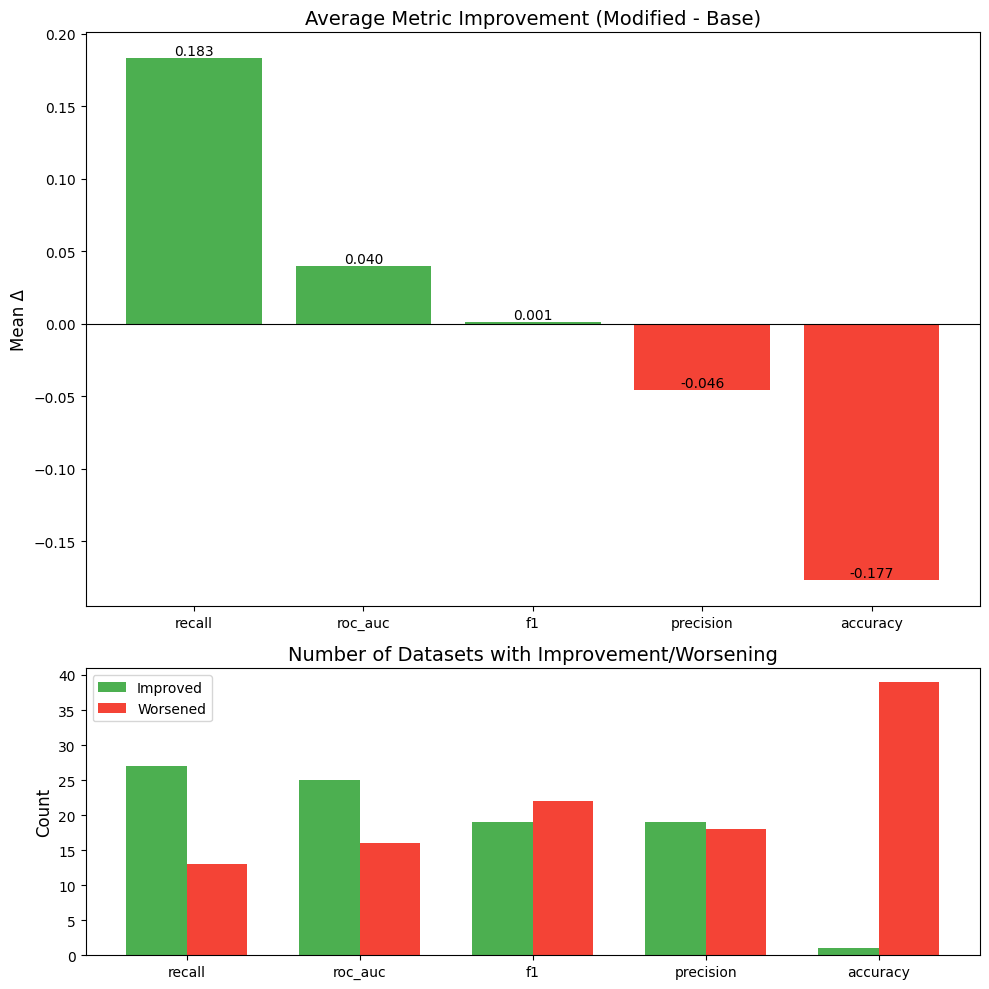
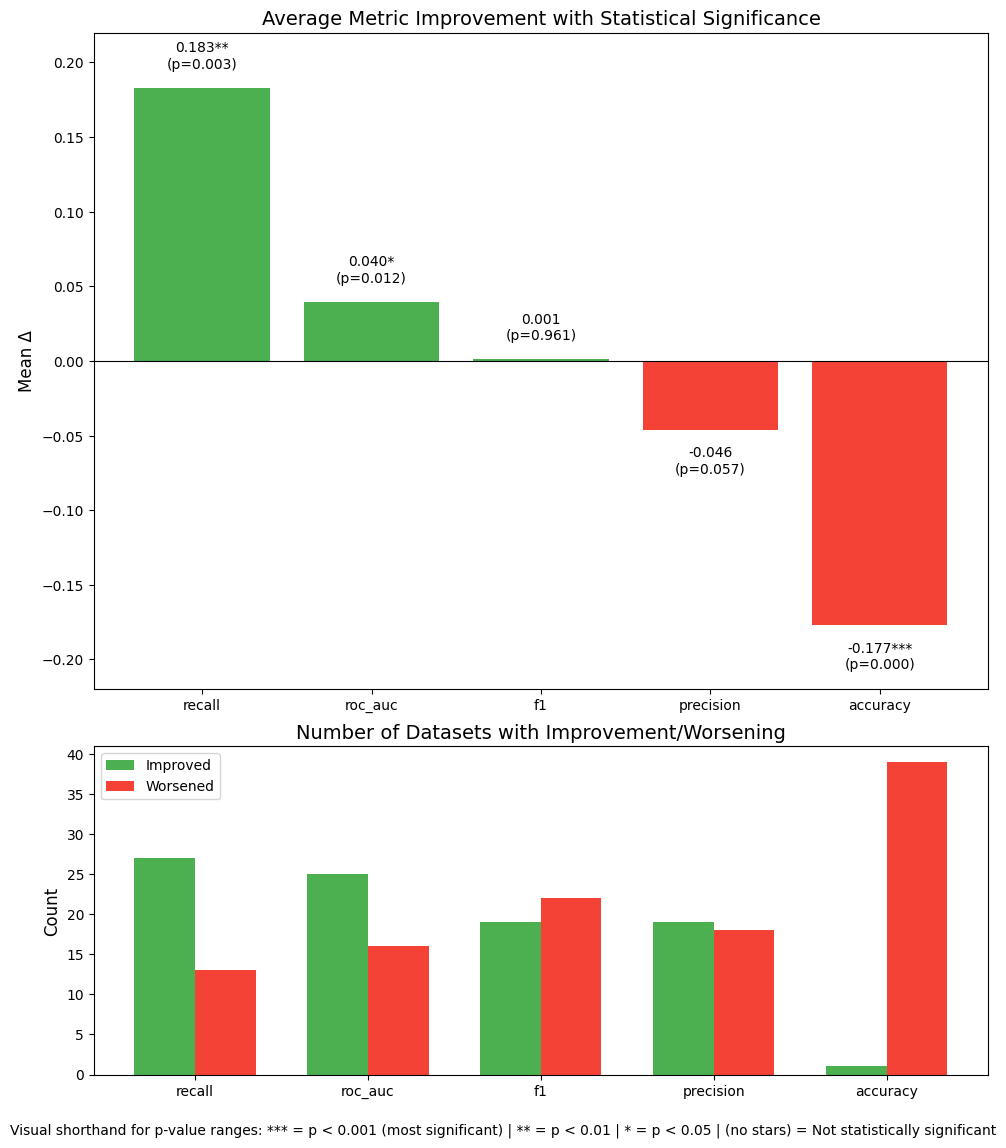
Add statistical tests and significance markers to metric improvement summary plots

diff --git a/src/utils/comparison.py b/src/utils/comparison.py
@@ -2,6 +2,7 @@ import matplotlib.pyplot as plt
 import pandas as pd
 import os
 import numpy as np
+from scipy import stats
 
 
 def load_and_merge_data(base_path="results/class_imbalance"):
@@ -50,7 +51,47 @@ def plot_metric_comparison(merged_data, metric, show=True, save_path=None):
     plt.close(fig)
 
 
+def perform_statistical_tests(merged_data):
+    """
+    Perform paired t-tests for all metrics
+    """
+    metrics = ["accuracy", "precision", "recall", "f1", "roc_auc"]
+    results = []
+
+    for metric in metrics:
+        base = merged_data[f"{metric}_base"]
+        modified = merged_data[f"{metric}_modified"]
+
+        # Perform paired t-test
+        t_stat, p_val = stats.ttest_rel(modified, base)
+        mean_diff = (modified - base).mean()
+
+        # Add significance stars
+        if p_val < 0.001:
+            stars = "***"
+        elif p_val < 0.01:
+            stars = "**"
+        elif p_val < 0.05:
+            stars = "*"
+        else:
+            stars = ""
+
+        results.append(
+            {
+                "metric": metric,
+                "mean_diff": mean_diff,
+                "p_value": p_val,
+                "significance": stars,
+            }
+        )
+
+    return pd.DataFrame(results)
+
+
 def plot_improvement_summary(merged_data, show=True, save_path=None):
+    # Perform statistical tests
+    stats_df = perform_statistical_tests(merged_data)
+
     metrics = ["accuracy", "precision", "recall", "f1", "roc_auc"]
     summary_data = []
 
@@ -66,33 +107,41 @@ def plot_improvement_summary(merged_data, show=True, save_path=None):
             }
         )
 
-    df = pd.DataFrame(summary_data)
-    df = df.sort_values("mean_improvement", ascending=False)
+    df = pd.DataFrame(summary_data).merge(stats_df, on="metric")
+    df = df.sort_values("mean_diff", ascending=False)
 
     # Create figure
     fig, (ax1, ax2) = plt.subplots(
-        2, 1, figsize=(10, 10), gridspec_kw={"height_ratios": [2, 1]}
+        2, 1, figsize=(10, 12), gridspec_kw={"height_ratios": [2, 1]}
     )
 
-    # Mean improvement plot
-    colors = ["#4CAF50" if x >= 0 else "#F44336" for x in df["mean_improvement"]]
-    bars = ax1.bar(df["metric"], df["mean_improvement"], color=colors)
+    # Mean improvement plot with significance markers
+    colors = ["#4CAF50" if x >= 0 else "#F44336" for x in df["mean_diff"]]
+    bars = ax1.bar(df["metric"], df["mean_diff"], color=colors)
     ax1.axhline(0, color="black", linewidth=0.8)
-    ax1.set_title("Average Metric Improvement (Modified - Base)", fontsize=14)
+    ax1.set_title(
+        "Average Metric Improvement with Statistical Significance", fontsize=14
+    )
     ax1.set_ylabel("Mean Δ", fontsize=12)
 
-    # Add value labels
-    for bar in bars:
+    # Add significance markers and values
+    max_height = df["mean_diff"].abs().max() * 1.2
+    ax1.set_ylim(-max_height, max_height)
+
+    for bar, (_, row) in zip(bars, df.iterrows()):
         height = bar.get_height()
+        va = "bottom" if height >= 0 else "top"
+        y = height + (0.05 * max_height if height >= 0 else -0.05 * max_height)
         ax1.text(
-            bar.get_x() + bar.get_width() / 2.0,
-            height,
-            f"{height:.3f}",
+            bar.get_x() + bar.get_width() / 2,
+            y,
+            f'{row["mean_diff"]:.3f}{row["significance"]}\n(p={row["p_value"]:.3f})',
             ha="center",
-            va="bottom",
+            va=va,
+            fontsize=10,
         )
 
-    # Count comparison plot
+    # Count comparison plot remains the same
     bar_width = 0.35
     x = np.arange(len(df))
     ax2.bar(
@@ -108,6 +157,15 @@ def plot_improvement_summary(merged_data, show=True, save_path=None):
     ax2.legend()
 
     plt.tight_layout()
+
+    plt.subplots_adjust(bottom=0.1)
+    fig.text(
+        0.5,
+        0.05,
+        "Visual shorthand for p-value ranges: *** = p < 0.001 (most significant) | ** = p < 0.01 | * = p < 0.05 | (no stars) = Not statistically significant",
+        ha="center",
+        fontsize=10,
+    )
 
     if save_path:
         plt.savefig(save_path, bbox_inches="tight")
